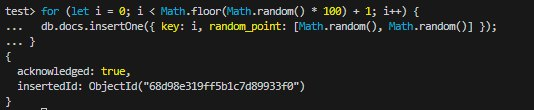
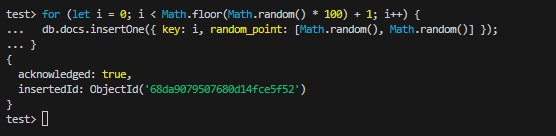
feat: hw_1

diff --git a/hw_1/README.md b/hw_1/README.md
@@ -4,7 +4,7 @@
 
 ## Окружение
 - Windows 11 + Docker
-- Образ: mongo:5.0.4
+- Образ: mongo:8.0.14
 
 ## Развёртывание в docker
 
@@ -20,22 +20,17 @@ docker run -d `
   --name mongo `
   --network mongo-net `
   --restart unless-stopped `
-  -v "D:/mongo:/data/db" `
+  -v "D:/mongo8:/data/db" `
   -e MONGO_INITDB_ROOT_USERNAME=root `
   -e MONGO_INITDB_ROOT_PASSWORD=Admin123 `
-  mongo:5.0.4
+  mongo:latest
 ~~~
 ![Скрин](images/2.jpg)
 
-### Просмотр контейнеров
-~~~powershell
-docker ps
-~~~
-![Скрин](images/3.jpg)
 
 ## Подключение
 ~~~powershell
-docker run -it --rm --name mongo-client --network mongo-net mongo:5.0.4 sh -lc "HOME=/tmp mongosh --host mongo -u root -p Admin123 --authenticationDatabase admin"
+docker run -it --rm --name mongo-client --network mongo-net mongo:latest sh -lc "HOME=/tmp mongosh --host mongo -u root -p Admin123 --authenticationDatabase admin"
 ~~~
 ![Скрин](images/4.jpg)
 
@@ -56,112 +51,67 @@ for (let i = 0; i < Math.floor(Math.random() * 100) + 1; i++) {
 
 ## Просмотр документов
 ~~~javascript
-test> db.docs.find().toArray()
+db.docs.find().toArray()
 [
   {
-    _id: ObjectId("68d98e309ff5b1c7d89933dc"),
+    _id: ObjectId('68da9078507680d14fce5f47'),
     key: 0,
-    random_point: [ 0.8942166308051567, 0.23472273630233031 ]
+    random_point: [ 0.6786239276118811, 0.47601955232780035 ]
   },
   {
-    _id: ObjectId("68d98e319ff5b1c7d89933dd"),
+    _id: ObjectId('68da9079507680d14fce5f48'),
     key: 1,
-    random_point: [ 0.09997895711767679, 0.9614896242257001 ]
+    random_point: [ 0.965790960998461, 0.4601131399189595 ]
   },
   {
-    _id: ObjectId("68d98e319ff5b1c7d89933de"),
+    _id: ObjectId('68da9079507680d14fce5f49'),
     key: 2,
-    random_point: [ 0.4237863585995314, 0.6632227882402169 ]
+    random_point: [ 0.34388522768717644, 0.4999778666685486 ]
   },
   {
-    _id: ObjectId("68d98e319ff5b1c7d89933df"),
+    _id: ObjectId('68da9079507680d14fce5f4a'),
     key: 3,
-    random_point: [ 0.8067620988742041, 0.5989019645820945 ]
+    random_point: [ 0.049244711335179714, 0.28031238001852987 ]
   },
   {
-    _id: ObjectId("68d98e319ff5b1c7d89933e0"),
+    _id: ObjectId('68da9079507680d14fce5f4b'),
     key: 4,
-    random_point: [ 0.8692141318689981, 0.3247349656826617 ]
+    random_point: [ 0.14570290259449292, 0.8794064736791363 ]
   },
   {
-    _id: ObjectId("68d98e319ff5b1c7d89933e1"),
+    _id: ObjectId('68da9079507680d14fce5f4c'),
     key: 5,
-    random_point: [ 0.9139372013235467, 0.43729208035793454 ]
+    random_point: [ 0.11625281862245185, 0.23807937597482343 ]
   },
   {
-    _id: ObjectId("68d98e319ff5b1c7d89933e2"),
+    _id: ObjectId('68da9079507680d14fce5f4d'),
     key: 6,
-    random_point: [ 0.9573190667030782, 0.29721871125603383 ]
+    random_point: [ 0.6074612561169117, 0.5133587000092754 ]
   },
   {
-    _id: ObjectId("68d98e319ff5b1c7d89933e3"),
+    _id: ObjectId('68da9079507680d14fce5f4e'),
     key: 7,
-    random_point: [ 0.05925250643096991, 0.5993209899504712 ]
+    random_point: [ 0.5200711262634095, 0.4387946409646333 ]
   },
   {
-    _id: ObjectId("68d98e319ff5b1c7d89933e4"),
+    _id: ObjectId('68da9079507680d14fce5f4f'),
     key: 8,
-    random_point: [ 0.5702903255035785, 0.9373477148959986 ]
+    random_point: [ 0.06157670858902797, 0.4211115563884378 ]
   },
   {
-    _id: ObjectId("68d98e319ff5b1c7d89933e5"),
+    _id: ObjectId('68da9079507680d14fce5f50'),
     key: 9,
-    random_point: [ 0.6842683176576916, 0.29855752578404937 ]
+    random_point: [ 0.6324438570352453, 0.5122070841888644 ]
   },
   {
-    _id: ObjectId("68d98e319ff5b1c7d89933e6"),
+    _id: ObjectId('68da9079507680d14fce5f51'),
     key: 10,
-    random_point: [ 0.2410083658881894, 0.5680904880986308 ]
+    random_point: [ 0.7356257609972414, 0.7693127855231205 ]
   },
   {
-    _id: ObjectId("68d98e319ff5b1c7d89933e7"),
+    _id: ObjectId('68da9079507680d14fce5f52'),
     key: 11,
-    random_point: [ 0.4656326404180178, 0.2918996115080168 ]
-  },
-  {
-    _id: ObjectId("68d98e319ff5b1c7d89933e8"),
-    key: 12,
-    random_point: [ 0.8049994038194279, 0.03558673895804754 ]
-  },
-  {
-    _id: ObjectId("68d98e319ff5b1c7d89933e9"),
-    key: 13,
-    random_point: [ 0.9089552866139103, 0.2407697003716922 ]
-  },
-  {
-    _id: ObjectId("68d98e319ff5b1c7d89933ea"),
-    key: 14,
-    random_point: [ 0.6338417984179474, 0.8195737069066928 ]
-  },
-  {
-    _id: ObjectId("68d98e319ff5b1c7d89933eb"),
-    key: 15,
-    random_point: [ 0.4080197858838197, 0.914457105989428 ]
-  },
-  {
-    _id: ObjectId("68d98e319ff5b1c7d89933ec"),
-    key: 16,
-    random_point: [ 0.4108142481541026, 0.7270395607927251 ]
-  },
-  {
-    _id: ObjectId("68d98e319ff5b1c7d89933ed"),
-    key: 17,
-    random_point: [ 0.13176077350950477, 0.42291899622864215 ]
-  },
-  {
-    _id: ObjectId("68d98e319ff5b1c7d89933ee"),
-    key: 18,
-    random_point: [ 0.9434391843086769, 0.3737212786352706 ]
-  },
-  {
-    _id: ObjectId("68d98e319ff5b1c7d89933ef"),
-    key: 19,
-    random_point: [ 0.5809365493552159, 0.39883145966739564 ]
-  },
-  {
-    _id: ObjectId("68d98e319ff5b1c7d89933f0"),
-    key: 20,
-    random_point: [ 0.3950179683255115, 0.16553151110563058 ]
+    random_point: [ 0.8429547547490168, 0.07591201751450516 ]
   }
 ]
 ~~~
